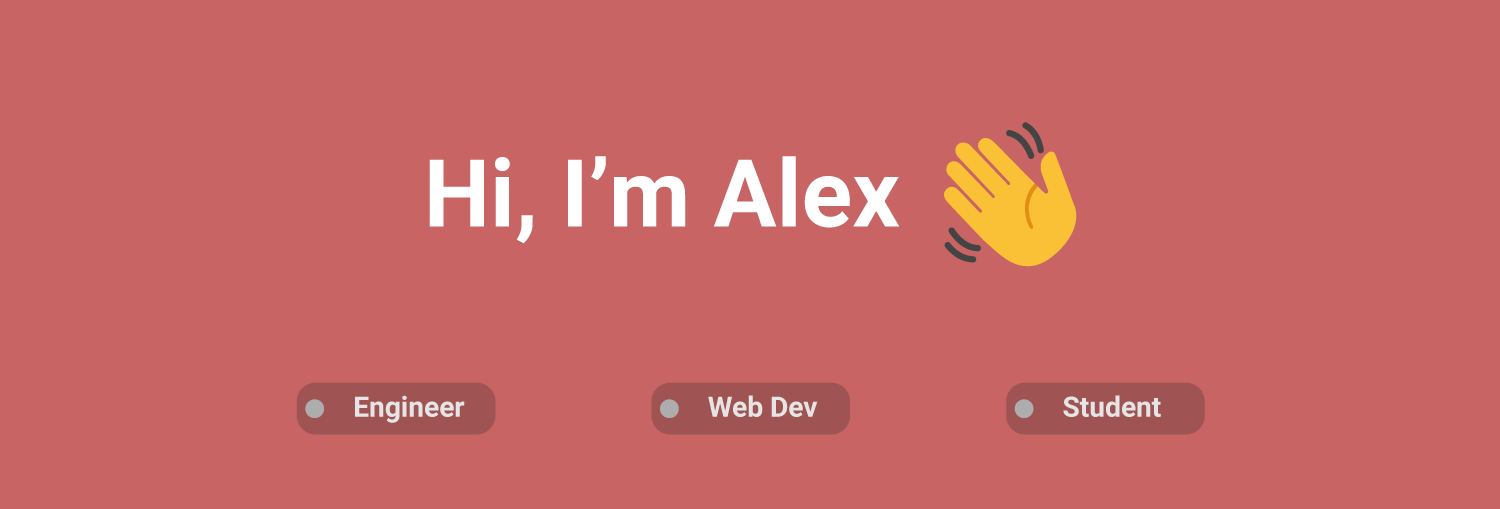
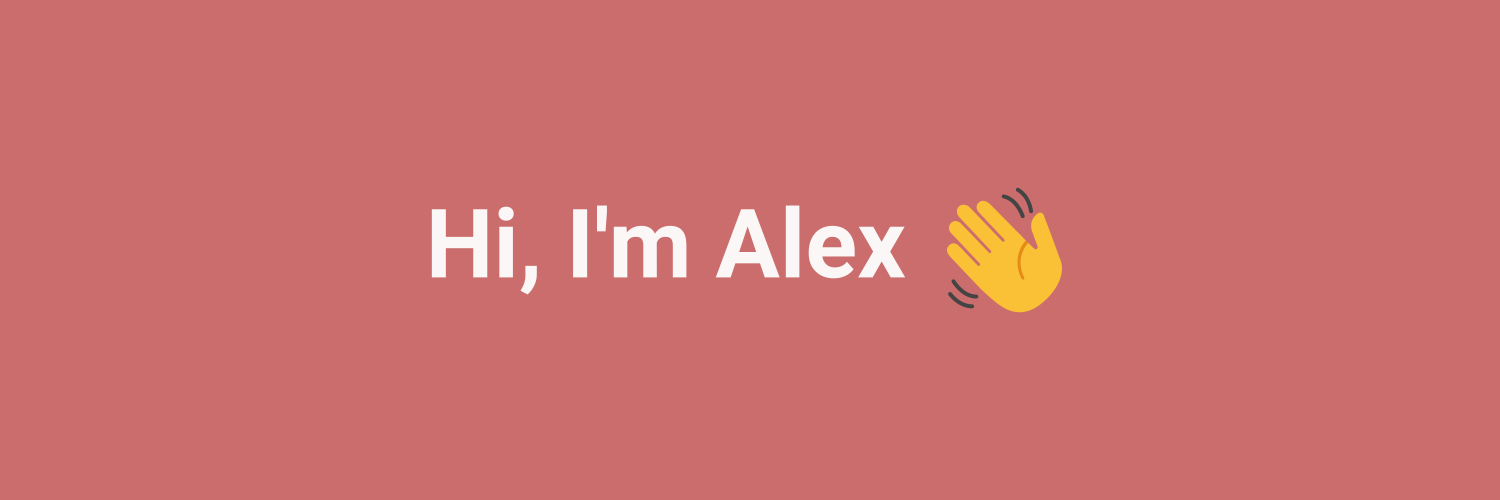
update atoff

diff --git a/README.md b/README.md
@@ -1,22 +1,9 @@
-![banner image](https://github.com/atoff/atoff/blob/master/gh_banner.png)
+![banner image with white text saying 'Hi, I'm Alex' with a waving hand emoji on a muted red background](https://github.com/atoff/atoff/blob/master/gh_banner.png)
 
-I'm a aerospace design engineering student from Cambridge, United Kingdom, but learning out of Bristol. In addition to my studies, I am a passionate programmer and although I tend to work on web projects, I enjoy dabbling in mobile/desktop applications. 
+- 🔧 I'm a engineer from Bristol, UK, working on motion simulation platforms
+- 💻 I'm interested in a range of full-stack web technologies and platforms
+- 📚 My core languages are PHP, TypeScript and Python
+- 🌱 I'm currently learning C# and Flutter
+- 💬 Ask me about Vue, Laravel
 
-Feel free to check out my open source projects, and get in touch if you have any questions!
-
-
-
-<!--
-**atoff/atoff** is a ✨ _special_ ✨ repository because its `README.md` (this file) appears on your GitHub profile.
-
-Here are some ideas to get you started:
-
-- 🔭 I’m currently working on ...
-- 🌱 I’m currently learning ...
-- 👯 I’m looking to collaborate on ...
-- 🤔 I’m looking for help with ...
-- 💬 Ask me about ...
-- 📫 How to reach me: ...
-- 😄 Pronouns: ...
-- ⚡ Fun fact: ...
--->
+![](https://github-readme-stats.vercel.app/api?username=atoff&theme=dark&hide_border=true&hide_rank=true&include_all_commits=true&count_private=true)<br/>
